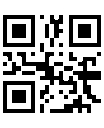
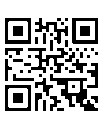
Three more badges

diff --git a/examples/restrain.py b/examples/restrain.py
@@ -6,22 +6,25 @@ import jpegdec
 WIDTH = badger2040.WIDTH
 HEIGHT = badger2040.HEIGHT
 
-IMAGE_WIDTH = 104
-
-TITLE_HEIGHT = 30
-NAME_HEIGHT = HEIGHT - TITLE_HEIGHT - 2
-TEXT_WIDTH = WIDTH - (IMAGE_WIDTH * 2) - 1
+IMAGE_WIDTH = 49
 
 TITLE_TEXT_SIZE = 0.9
+DETAIL_TEXT_SIZE = 0.6
 
-LEFT_PADDING = 5
+TITLE_HEIGHT = round(30*TITLE_TEXT_SIZE)
+TEXT_WIDTH = WIDTH - (IMAGE_WIDTH) - 1
+
+LEFT_PADDING = 6
 NAME_PADDING = 20
 DETAIL_SPACING = 10
 
-TITLE = "hroar"
-NAME = "Caution! This pup is not able to see well"#, if at all. Please be careful."
-IMAGE_NSFK = "images/blind.jpg"
-IMAGE_THC = "images/blindfold.jpg"
+TITLE = "PATIENT, HROAR"
+DETAIL_1 = "DR. SCHMITT"
+DETAIL_2 = "DOB:   2024-04-06"
+DETAIL_3 = "Hilton Sanitarium Rm #"
+DETAIL_4 = "KEEP MUZZLED"
+DETAIL_5 = "KEEP RESTRAINED"
+IMAGE = "images/barcode.jpg"
 
 # ------------------------------
 #      Utility functions
@@ -49,39 +52,27 @@ def draw_badge():
     display.clear()
 
     # Draw left badge image
-    jpeg.open_file(IMAGE_THC)
+    jpeg.open_file(IMAGE)
     jpeg.decode(0, 0)
-    # # Draw right badge image
-    jpeg.open_file(IMAGE_NSFK)
-    jpeg.decode((WIDTH - IMAGE_WIDTH) + 1, 0)
 
-    # Draw a border around the images
-    display.set_pen(0)
-    # Left image
-    display.line(0, 0, IMAGE_WIDTH + 1, 0)
-    display.line(0, 0, 0, HEIGHT - 1)
-    display.line(0, HEIGHT - 1, IMAGE_WIDTH + 1, HEIGHT - 1)
-    display.line(IMAGE_WIDTH + 1, 0, IMAGE_WIDTH + 1, HEIGHT - 1)
-    # Right image
-    display.line(WIDTH - IMAGE_WIDTH, 0, WIDTH - 1, 0)
-    display.line(WIDTH - IMAGE_WIDTH, 0, WIDTH - IMAGE_WIDTH, HEIGHT - 1)
-    display.line(WIDTH - IMAGE_WIDTH, HEIGHT - 1, WIDTH - 1, HEIGHT - 1)
-    display.line(WIDTH - 1, 0, WIDTH - 1, HEIGHT - 1)
+    # Draw a white background
+    display.set_pen(15)
+    display.rectangle(IMAGE_WIDTH, 0, TEXT_WIDTH + 1, HEIGHT)
 
     # Draw the TITLE
-    display.set_pen(15)  # Change this to 0 if a white background is used
+    display.set_pen(0)
+    display.set_thickness(3)
     display.set_font("sans")
     display.text(title, IMAGE_WIDTH + LEFT_PADDING + 1, TITLE_HEIGHT // 2, WIDTH, TITLE_TEXT_SIZE)
 
-    # Draw a white background behind the name
-    display.set_pen(15)
-    display.rectangle(IMAGE_WIDTH + 1, TITLE_HEIGHT + 1, TEXT_WIDTH, NAME_HEIGHT)
-
     # Draw the name, scaling it based on the available width
     display.set_pen(0)
-    display.set_font("bitmap8")
-    name_size = 2
-    display.text(NAME, IMAGE_WIDTH + LEFT_PADDING, (TITLE_HEIGHT) + LEFT_PADDING, wordwrap=((WIDTH - (IMAGE_WIDTH * 2)) - (LEFT_PADDING * 2)), scale=name_size)
+    display.set_thickness(2)
+    display.set_font("sans")
+    line = 0
+    for detail in [DETAIL_1, DETAIL_2, DETAIL_3, DETAIL_4, DETAIL_5]:
+        display.text(detail, IMAGE_WIDTH + LEFT_PADDING + 2, TITLE_HEIGHT + LEFT_PADDING + 2 + line*(round((22*DETAIL_TEXT_SIZE)) + LEFT_PADDING), scale=DETAIL_TEXT_SIZE)
+        line += 1
 
     display.update()
 

diff --git a/examples/thc.py b/examples/thc.py
@@ -10,7 +10,7 @@ IMAGE_WIDTH = 104
 
 TITLE_HEIGHT = 30
 NAME_HEIGHT = HEIGHT - TITLE_HEIGHT - 2
-TEXT_WIDTH = WIDTH - (IMAGE_WIDTH * 2) - 1
+TEXT_WIDTH = WIDTH - (IMAGE_WIDTH) - 1
 
 TITLE_TEXT_SIZE = 0.9
 
@@ -19,9 +19,8 @@ NAME_PADDING = 20
 DETAIL_SPACING = 10
 
 TITLE = "hroar"
-NAME = "This puppy has not been analyzed or approved by the FDA. There is limited information on the side effects of using this puppy. KEEP THIS PUPPY AWAY FROM KIDS."
-IMAGE_NSFK = "images/nsfk.jpg"
-IMAGE_THC = "images/containsthc.jpg"
+NAME = "WARNING. This puppy contains THC. This puppy has not been analyzed or approved by the FDA. There is limited information on the side effects of using this puppy, and there may be associated health risks. Marijuana use during pregnancy and breastfeeding may pose potential harms. It is against the law to drive or operate machinery when under the influence of this puppy. KEEP THIS PUPPY AWAY FROM CHILDREN."
+IMAGE_THC = "images/thc.jpg"
 
 # ------------------------------
 #      Utility functions
@@ -51,9 +50,6 @@ def draw_badge():
     # Draw left badge image
     jpeg.open_file(IMAGE_THC)
     jpeg.decode(0, 0)
-    # # Draw right badge image
-    jpeg.open_file(IMAGE_NSFK)
-    jpeg.decode((WIDTH - IMAGE_WIDTH) + 1, 0)
 
     # Draw a border around the images
     display.set_pen(0)
@@ -62,11 +58,6 @@ def draw_badge():
     display.line(0, 0, 0, HEIGHT - 1)
     display.line(0, HEIGHT - 1, IMAGE_WIDTH + 1, HEIGHT - 1)
     display.line(IMAGE_WIDTH + 1, 0, IMAGE_WIDTH + 1, HEIGHT - 1)
-    # Right image
-    display.line(WIDTH - IMAGE_WIDTH, 0, WIDTH - 1, 0)
-    display.line(WIDTH - IMAGE_WIDTH, 0, WIDTH - IMAGE_WIDTH, HEIGHT - 1)
-    display.line(WIDTH - IMAGE_WIDTH, HEIGHT - 1, WIDTH - 1, HEIGHT - 1)
-    display.line(WIDTH - 1, 0, WIDTH - 1, HEIGHT - 1)
 
     # Draw the TITLE
     display.set_pen(15)  # Change this to 0 if a white background is used
@@ -81,7 +72,7 @@ def draw_badge():
     display.set_pen(0)
     display.set_font("bitmap6")
     name_size = 0.4  # A sensible starting scale
-    display.text(NAME, IMAGE_WIDTH + LEFT_PADDING, (TITLE_HEIGHT) + LEFT_PADDING, wordwrap=((WIDTH - (IMAGE_WIDTH * 2)) - (LEFT_PADDING * 2)), scale=name_size)
+    display.text(NAME, IMAGE_WIDTH + LEFT_PADDING, (TITLE_HEIGHT) + LEFT_PADDING, wordwrap=((WIDTH - (IMAGE_WIDTH)) - (LEFT_PADDING * 2)), scale=name_size)
 
     display.update()
 

diff --git a/examples/dad.py b/examples/dad.py
@@ -6,7 +6,7 @@ import jpegdec
 WIDTH = badger2040.WIDTH
 HEIGHT = badger2040.HEIGHT
 
-IMAGE_WIDTH = 104
+IMAGE_WIDTH = 139
 
 TITLE_HEIGHT = 30
 DETAILS_HEIGHT = 20
@@ -20,10 +20,10 @@ LEFT_PADDING = 5
 NAME_PADDING = 20
 DETAIL_SPACING = 10
 
-TITLE = "locked in suit"
-NAME = "hroar"
-DETAIL = "please don't free me"
-IMAGE = "images/locked.jpg"
+TITLE = "Dad Mode"
+NAME = "Mr Hroar"
+DETAIL = "Need help, kiddo?"
+IMAGE = "images/dad.jpg"
 
 # ------------------------------
 #      Utility functions
@@ -63,8 +63,8 @@ def draw_badge():
 
     # Draw the TITLE
     display.set_pen(15)  # Change this to 0 if a white background is used
-    display.set_font("serif_italic")
-    display.text(title, LEFT_PADDING - 2, (TITLE_HEIGHT // 2) + 1, WIDTH, TITLE_TEXT_SIZE)
+    display.set_font("sans")
+    display.text(title, LEFT_PADDING, (TITLE_HEIGHT // 2) + 1, WIDTH, TITLE_TEXT_SIZE)
 
     # Draw a white background behind the name
     display.set_pen(15)
@@ -72,7 +72,7 @@ def draw_badge():
 
     # Draw the name, scaling it based on the available width
     display.set_pen(0)
-    display.set_font("sans")
+    display.set_font("serif")
     name_size = 2.0  # A sensible starting scale
     while True:
         name_length = display.measure_text(NAME, name_size)
@@ -88,7 +88,7 @@ def draw_badge():
 
     # Draw the detail's title and text
     display.set_pen(0)
-    display.set_font("serif_italic")
+    display.set_font("sans")
     display.text(detail, LEFT_PADDING,  (HEIGHT - (DETAILS_HEIGHT // 2)) - 1, WIDTH, DETAILS_TEXT_SIZE)
 
     display.update()

diff --git a/examples/cuck.py b/examples/cuck.py
@@ -20,10 +20,10 @@ LEFT_PADDING = 5
 NAME_PADDING = 20
 DETAIL_SPACING = 10
 
-TITLE = "locked in suit"
+TITLE = "cuckpuppy"
 NAME = "hroar"
-DETAIL = "please don't free me"
-IMAGE = "images/locked.jpg"
+DETAIL = "will clean you up after"
+IMAGE = "images/cuck.jpg"
 
 # ------------------------------
 #      Utility functions
@@ -63,8 +63,8 @@ def draw_badge():
 
     # Draw the TITLE
     display.set_pen(15)  # Change this to 0 if a white background is used
-    display.set_font("serif_italic")
-    display.text(title, LEFT_PADDING - 2, (TITLE_HEIGHT // 2) + 1, WIDTH, TITLE_TEXT_SIZE)
+    display.set_font("sans")
+    display.text(title, LEFT_PADDING + 25, (TITLE_HEIGHT // 2) + 1, WIDTH, TITLE_TEXT_SIZE)
 
     # Draw a white background behind the name
     display.set_pen(15)
@@ -72,7 +72,7 @@ def draw_badge():
 
     # Draw the name, scaling it based on the available width
     display.set_pen(0)
-    display.set_font("sans")
+    display.set_font("serif_italic")
     name_size = 2.0  # A sensible starting scale
     while True:
         name_length = display.measure_text(NAME, name_size)
@@ -88,7 +88,7 @@ def draw_badge():
 
     # Draw the detail's title and text
     display.set_pen(0)
-    display.set_font("serif_italic")
+    display.set_font("sans")
     display.text(detail, LEFT_PADDING,  (HEIGHT - (DETAILS_HEIGHT // 2)) - 1, WIDTH, DETAILS_TEXT_SIZE)
 
     display.update()

diff --git a/examples/qr.py b/examples/qr.py
@@ -22,7 +22,7 @@ DETAIL_SPACING = 10
 
 TITLE = "puppy"
 NAME = "hroar"
-DETAIL = "hroar.uk"
+DETAIL = "hroar.dog"
 IMAGE = "images/qr.jpg"
 
 # ------------------------------
